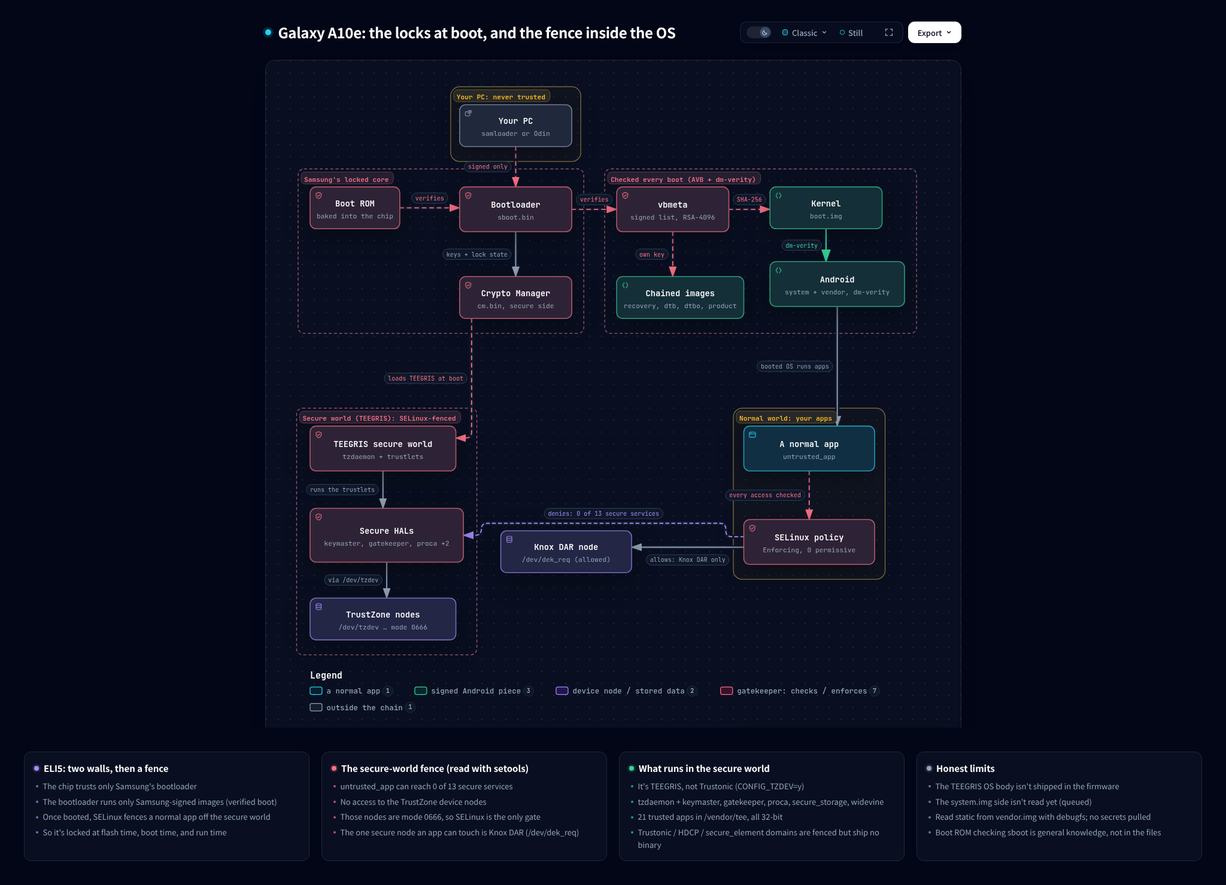
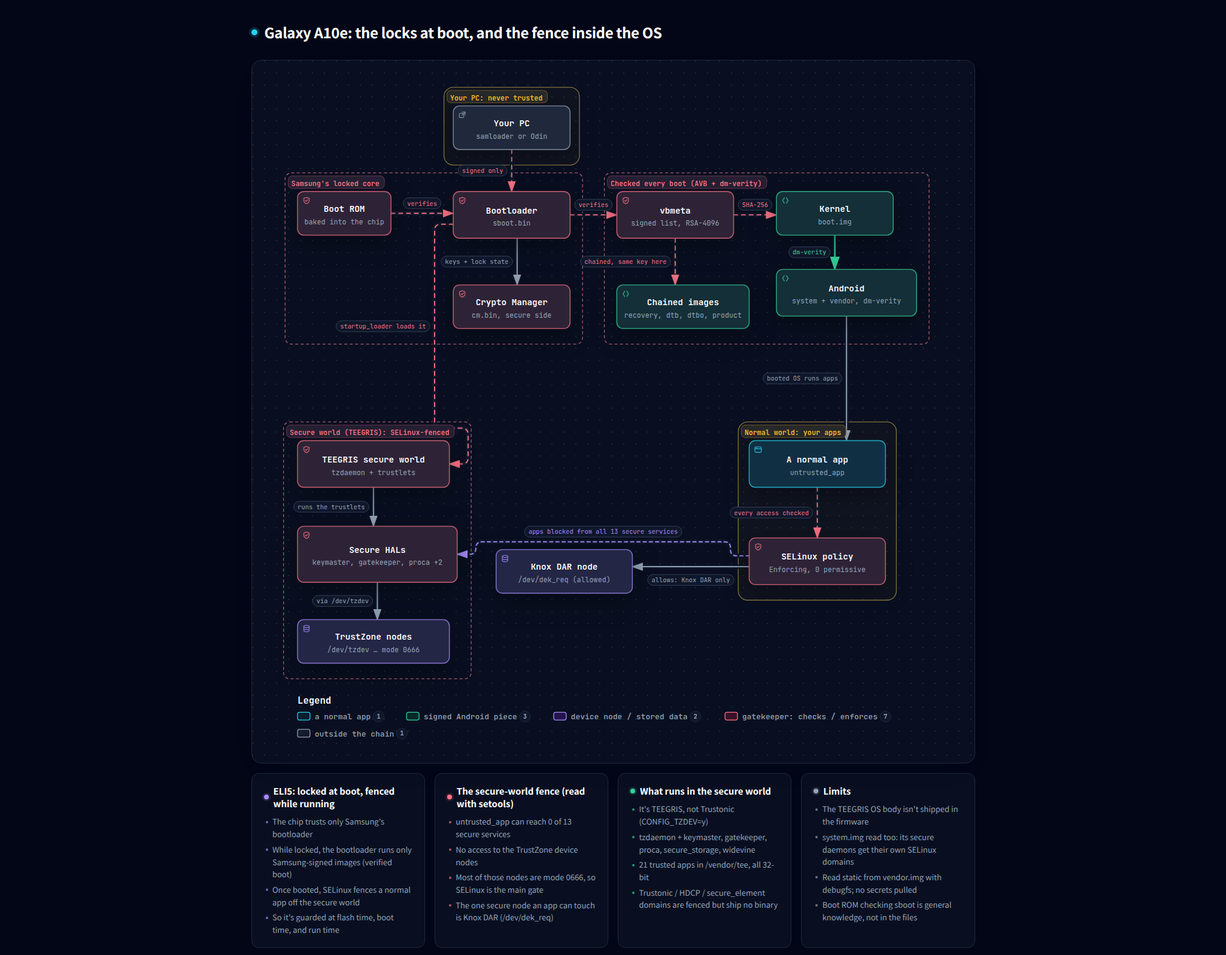
diagrams: fixes from the repo reviews, re-exported without the archify toolbar - hero: SELinux 'blocks apps from all 13' (was the backwards 'denies: 0 of 13'), startup_loader in sboot loads TEEGRIS (not Crypto Manager), chained partitions use the same key, 'main gate', 'while locked', the system.img

diff --git a/.archify/workflow-a10e-two-walls-20261028-161640/a10e-two-walls.html b/.archify/workflow-a10e-two-walls-20261028-161640/a10e-two-walls.html
@@ -5202,7 +5202,7 @@ OTHER DEALINGS IN THE FONT SOFTWARE.
     <!-- Main Diagram -->
     <div class="diagram-container" data-detail-level="read"
          data-preset-badge-editorial-plate="ARCHIFY / PLATE 04">
-      <svg viewBox="0 0 1162 676" data-reader-fit="width-first" data-layout-contract="readable-v2" role="img" lang="en" aria-labelledby="archify-diagram-title archify-diagram-description" data-animation="trace" data-preset="classic" data-quality-profile="showcase" data-node-ui="">
+      <svg viewBox="0 0 1171 676" data-reader-fit="width-first" data-layout-contract="readable-v2" role="img" lang="en" aria-labelledby="archify-diagram-title archify-diagram-description" data-animation="trace" data-preset="classic" data-quality-profile="showcase" data-node-ui="">
         <title id="archify-diagram-title">Why LineageOS can&#39;t go on this phone: two walls</title>
         <desc id="archify-diagram-description">A workflow diagram generated by Archify.</desc>
         <!-- Definitions -->
@@ -5249,35 +5249,35 @@ OTHER DEALINGS IN THE FONT SOFTWARE.
         <rect width="100%" height="100%" fill="url(#grid)" />
 
         <!-- Swimlanes -->
-        <rect data-graph-role="structural-frame" data-composition-frame-kind="lane" data-composition-frame-id="lane-0" x="40" y="52" width="1106" height="174" rx="10" class="c-lane" stroke-width="1"/>
+        <rect data-graph-role="structural-frame" data-composition-frame-kind="lane" data-composition-frame-id="lane-0" x="40" y="52" width="1115" height="174" rx="10" class="c-lane" stroke-width="1"/>
         <text x="54" y="74" class="t-muted" font-size="10" font-weight="600">01 / Wall 1 - getting in</text>
 
-        <rect data-graph-role="structural-frame" data-composition-frame-kind="lane" data-composition-frame-id="lane-1" x="40" y="246" width="1106" height="182" rx="10" class="c-lane" stroke-width="1"/>
+        <rect data-graph-role="structural-frame" data-composition-frame-kind="lane" data-composition-frame-id="lane-1" x="40" y="246" width="1115" height="182" rx="10" class="c-lane" stroke-width="1"/>
         <text x="54" y="268" class="t-muted" font-size="10" font-weight="600">02 / Wall 2 - the VINTF version check</text>
 
-        <rect data-graph-role="structural-frame" data-composition-frame-kind="lane" data-composition-frame-id="lane-2" x="40" y="448" width="1106" height="104" rx="10" class="c-lane" stroke-width="1"/>
+        <rect data-graph-role="structural-frame" data-composition-frame-kind="lane" data-composition-frame-id="lane-2" x="40" y="448" width="1115" height="104" rx="10" class="c-lane" stroke-width="1"/>
         <text x="54" y="470" class="t-muted" font-size="10" font-weight="600">03 / Comparison - the tablets</text>
 
         <!-- Phase headers -->
 
 
         <!-- Workflow groups -->
-        <rect data-graph-role="structural-frame" data-composition-frame-kind="group" data-composition-frame-id="group-0" x="865.2" y="284" width="196" height="140" rx="9" class="c-lane" stroke-width="1"/>
-        <text x="875.2" y="282" class="t-messagebus" font-size="7" font-weight="600">Smaller details</text>
+        <rect data-graph-role="structural-frame" data-composition-frame-kind="group" data-composition-frame-id="group-0" x="828.4" y="284" width="288.0000000000001" height="140" rx="9" class="c-lane" stroke-width="1"/>
+        <text x="838.4" y="282" class="t-messagebus" font-size="7" font-weight="600">Smaller details</text>
 
         <!-- Edge paths -->
-        <path data-edge-from="avb" data-edge-to="avb_ev" data-edge-key="0" data-edge-id="e-avb-ev" data-edge-role="branch" data-composition-points="740.4,138;740.4,170" d="M 740.4 138 L 740.4 170" class="a-dashed" data-animate="edge" style="--step:5" stroke-width="1.4" marker-end="url(#arrowhead-dashed)"/>
-        <path data-edge-from="avb" data-edge-to="resign" data-edge-label="re-sign it?" data-edge-key="1" data-edge-id="e-avb-resign" data-composition-routing="workflow-v2-auto" data-edge-role="error" data-composition-points="810.4,112;881.2,112" d="M 810.4 112 L 881.2 112" class="a-security" data-animate="edge" style="--step:3" stroke-width="1.4" marker-end="url(#arrowhead-security)"/>
+        <path data-edge-from="avb" data-edge-to="avb_ev" data-edge-key="0" data-edge-id="e-avb-ev" data-edge-role="branch" data-composition-points="742.4,138;742.4,170" d="M 742.4 138 L 742.4 170" class="a-dashed" data-animate="edge" style="--step:5" stroke-width="1.4" marker-end="url(#arrowhead-dashed)"/>
+        <path data-edge-from="avb" data-edge-to="resign" data-edge-label="re-sign it?" data-edge-key="1" data-edge-id="e-avb-resign" data-composition-routing="workflow-v2-auto" data-edge-role="error" data-composition-points="812.4,112;890.4,112" d="M 812.4 112 L 890.4 112" class="a-security" data-animate="edge" style="--step:3" stroke-width="1.4" marker-end="url(#arrowhead-security)"/>
         <path data-edge-from="gsi" data-edge-to="locked" data-edge-label="get in?" data-edge-key="2" data-edge-id="e-gsi-locked" data-composition-routing="workflow-v2-auto" data-edge-role="" data-composition-points="166,112;270.8,112" d="M 166 112 L 270.8 112" class="a-emphasis" data-animate="edge" style="--step:0" stroke-width="1.8" marker-end="url(#arrowhead-emphasis)"/>
         <path data-edge-from="gsi" data-edge-to="matrices" data-edge-key="3" data-edge-id="e-gsi-matrices" data-composition-routing="workflow-v2-auto" data-edge-role="" data-composition-points="74,112;20,112;20,355;48,355" d="M 74 112 L 28 112 Q 20 112 20 120 L 20 347 Q 20 355 28 355 L 48 355" class="a-emphasis" data-animate="edge" style="--step:8" stroke-width="1.8" marker-end="url(#arrowhead-emphasis)"/>
         <path data-edge-from="locked" data-edge-to="locked_ev" data-edge-key="4" data-edge-id="e-locked-ev" data-edge-role="branch" data-composition-points="326.8,138;326.8,170" d="M 326.8 138 L 326.8 170" class="a-dashed" data-animate="edge" style="--step:9" stroke-width="1.4" marker-end="url(#arrowhead-dashed)"/>
-        <path data-edge-from="locked" data-edge-to="toggle" data-edge-key="5" data-edge-id="e-locked-toggle" data-composition-routing="workflow-v2-auto" data-edge-role="" data-composition-points="382.8,112;444.79999999999995,112" d="M 382.8 112 L 444.79999999999995 112" class="a-security" data-animate="edge" style="--step:1" stroke-width="1.4" marker-end="url(#arrowhead-security)"/>
+        <path data-edge-from="locked" data-edge-to="toggle" data-edge-key="5" data-edge-id="e-locked-toggle" data-composition-routing="workflow-v2-auto" data-edge-role="" data-composition-points="382.8,112;432.79999999999995,112" d="M 382.8 112 L 432.79999999999995 112" class="a-security" data-animate="edge" style="--step:1" stroke-width="1.4" marker-end="url(#arrowhead-security)"/>
         <path data-edge-from="matrices" data-edge-to="vendor" data-edge-label="paired with" data-edge-key="6" data-edge-id="e-matrices-vendor" data-composition-routing="workflow-v2-auto" data-edge-role="" data-composition-points="192,355;262.8,355" d="M 192 355 L 262.8 355" class="a-security" data-animate="edge" style="--step:11" stroke-width="1.4" marker-end="url(#arrowhead-security)"/>
         <path data-edge-from="rule" data-edge-to="refused2" data-edge-label="no level-3 matrix" data-edge-key="7" data-edge-id="e-rule-refused" data-composition-routing="workflow-v2-auto" data-edge-role="error" data-composition-points="584.8,355;684.4,355" d="M 584.8 355 L 684.4 355" class="a-security" data-animate="edge" style="--step:12" stroke-width="1.4" marker-end="url(#arrowhead-security)"/>
         <path data-edge-from="tab" data-edge-to="tabunlock" data-edge-key="8" data-edge-id="e-tab-unlock" data-composition-routing="workflow-v2-auto" data-edge-role="" data-composition-points="166,515;454.79999999999995,515" d="M 166 515 L 454.79999999999995 515" class="a-emphasis" data-animate="edge" style="--step:12" stroke-width="1.8" marker-end="url(#arrowhead-emphasis)"/>
-        <path data-edge-from="toggle" data-edge-to="avb" data-edge-key="9" data-edge-id="e-toggle-avb" data-composition-routing="workflow-v2-auto" data-edge-role="" data-composition-points="584.8,112;670.4,112" d="M 584.8 112 L 670.4 112" class="a-security" data-animate="edge" style="--step:2" stroke-width="1.4" marker-end="url(#arrowhead-security)"/>
+        <path data-edge-from="toggle" data-edge-to="avb" data-edge-key="9" data-edge-id="e-toggle-avb" data-composition-routing="workflow-v2-auto" data-edge-role="" data-composition-points="596.8,112;672.4,112" d="M 596.8 112 L 672.4 112" class="a-security" data-animate="edge" style="--step:2" stroke-width="1.4" marker-end="url(#arrowhead-security)"/>
         <path data-edge-from="toggle" data-edge-to="toggle_ev" data-edge-key="10" data-edge-id="e-toggle-ev" data-edge-role="branch" data-composition-points="514.8,138;514.8,170" d="M 514.8 138 L 514.8 170" class="a-dashed" data-animate="edge" style="--step:12" stroke-width="1.4" marker-end="url(#arrowhead-dashed)"/>
-        <path data-edge-from="tabunlock" data-edge-to="tabpast" data-edge-key="11" data-edge-id="e-unlock-past" data-composition-routing="workflow-v2-auto" data-edge-role="" data-composition-points="574.8,515;694.4,515" d="M 574.8 515 L 694.4 515" class="a-emphasis" data-animate="edge" style="--step:12" stroke-width="1.8" marker-end="url(#arrowhead-emphasis)"/>
+        <path data-edge-from="tabunlock" data-edge-to="tabpast" data-edge-key="11" data-edge-id="e-unlock-past" data-composition-routing="workflow-v2-auto" data-edge-role="" data-composition-points="574.8,515;696.4,515" d="M 574.8 515 L 696.4 515" class="a-emphasis" data-animate="edge" style="--step:12" stroke-width="1.8" marker-end="url(#arrowhead-emphasis)"/>
         <path data-edge-from="vendor" data-edge-to="rule" data-edge-key="12" data-edge-id="e-vendor-rule" data-composition-routing="workflow-v2-auto" data-edge-role="" data-composition-points="390.8,355;444.79999999999995,355" d="M 390.8 355 L 444.79999999999995 355" class="a-security" data-animate="edge" style="--step:12" stroke-width="1.4" marker-end="url(#arrowhead-security)"/>
 
         <!-- Nodes -->
@@ -5316,15 +5316,16 @@ OTHER DEALINGS IN THE FONT SOFTWARE.
           <text data-detail="context" x="326.8" y="216.3" class="t-muted" font-size="8" text-anchor="middle">flash.locked = 1</text>
         </g>
 
-        <g id="node-toggle" data-node-id="toggle" data-node-label="OEM unlock toggle off" tabindex="0" role="button" aria-label="Focus OEM unlock toggle off, Wall 1 - getting in" aria-pressed="false" data-node-kind="security" data-node-context="Wall 1 - getting in">
-          <title>OEM unlock toggle off · Wall 1 - getting in</title>
-          <rect x="444.79999999999995" y="86" width="140" height="52" rx="8" class="c-mask"/>
-          <rect x="444.79999999999995" y="86" width="140" height="52" rx="8" class="c-security" data-animate="node" style="--step:2" stroke-width="1.5"/>
-          <g aria-hidden="true" data-semantic-sigil="security" class="semantic-sigil s-security" transform="translate(450.79999999999995 92) scale(0.6875)">
+        <g id="node-toggle" data-node-id="toggle" data-node-label="OEM unlocking not allowed" tabindex="0" role="button" aria-label="Focus OEM unlocking not allowed, (sys.oem_unlock_allowed=0), Wall 1 - getting in" aria-pressed="false" data-node-kind="security" data-node-sublabel="(sys.oem_unlock_allowed=0)" data-node-context="Wall 1 - getting in">
+          <title>OEM unlocking not allowed · (sys.oem_unlock_allowed=0) · Wall 1 - getting in</title>
+          <rect x="432.79999999999995" y="86" width="164" height="52" rx="8" class="c-mask"/>
+          <rect x="432.79999999999995" y="86" width="164" height="52" rx="8" class="c-security" data-animate="node" style="--step:2" stroke-width="1.5"/>
+          <g aria-hidden="true" data-semantic-sigil="security" class="semantic-sigil s-security" transform="translate(438.79999999999995 92) scale(0.6875)">
             <path d="M8 2.2 13 4v3.5c0 3.1-1.8 5.4-5 6.5-3.2-1.1-5-3.4-5-6.5V4Z"/>
             <path d="m5.8 8 1.5 1.5 3-3"/>
           </g>
-          <text data-node-label="" x="514.8" y="117.5" class="t-primary" font-size="10.4" font-weight="600" text-anchor="middle">OEM unlock toggle off</text>
+          <text data-node-label="" data-detail-anchor="" x="514.8" y="117.5" class="t-primary" font-size="10.4" font-weight="600" text-anchor="middle">OEM unlocking not allowed</text>
+          <text data-detail="context" x="514.8" y="132.3" class="t-muted" font-size="8" text-anchor="middle">(sys.oem_unlock_allowed=0)</text>
         </g>
 
         <g id="node-toggle_ev" data-node-id="toggle_ev" data-node-label="sys.oem_unlock_allowed = 0" tabindex="0" role="button" aria-label="Focus sys.oem_unlock_allowed = 0, ro.oem_unlock_supported = 1, Wall 1 - getting in" aria-pressed="false" data-node-kind="database" data-node-sublabel="ro.oem_unlock_supported = 1" data-node-context="Wall 1 - getting in">
@@ -5341,38 +5342,38 @@ OTHER DEALINGS IN THE FONT SOFTWARE.
 
         <g id="node-avb" data-node-id="avb" data-node-label="AVB rejects the image" tabindex="0" role="button" aria-label="Focus AVB rejects the image, while bootloader is locked, Wall 1 - getting in" aria-pressed="false" data-node-kind="security" data-node-sublabel="while bootloader is locked" data-node-context="Wall 1 - getting in">
           <title>AVB rejects the image · while bootloader is locked · Wall 1 - getting in</title>
-          <rect x="670.4" y="86" width="140" height="52" rx="8" class="c-mask"/>
-          <rect x="670.4" y="86" width="140" height="52" rx="8" class="c-security" data-animate="node" style="--step:3" stroke-width="1.5"/>
-          <g aria-hidden="true" data-semantic-sigil="security" class="semantic-sigil s-security" transform="translate(676.4 92) scale(0.6875)">
+          <rect x="672.4" y="86" width="140" height="52" rx="8" class="c-mask"/>
+          <rect x="672.4" y="86" width="140" height="52" rx="8" class="c-security" data-animate="node" style="--step:3" stroke-width="1.5"/>
+          <g aria-hidden="true" data-semantic-sigil="security" class="semantic-sigil s-security" transform="translate(678.4 92) scale(0.6875)">
             <path d="M8 2.2 13 4v3.5c0 3.1-1.8 5.4-5 6.5-3.2-1.1-5-3.4-5-6.5V4Z"/>
             <path d="m5.8 8 1.5 1.5 3-3"/>
           </g>
-          <text data-node-label="" data-detail-anchor="" x="740.4" y="117.5" class="t-primary" font-size="10.4" font-weight="600" text-anchor="middle">AVB rejects the image</text>
-          <text data-detail="context" x="740.4" y="132.3" class="t-muted" font-size="8" text-anchor="middle">while bootloader is locked</text>
+          <text data-node-label="" data-detail-anchor="" x="742.4" y="117.5" class="t-primary" font-size="10.4" font-weight="600" text-anchor="middle">AVB rejects the image</text>
+          <text data-detail="context" x="742.4" y="132.3" class="t-muted" font-size="8" text-anchor="middle">while bootloader is locked</text>
         </g>
 
         <g id="node-avb_ev" data-node-id="avb_ev" data-node-label="Samsung&#39;s 4096-bit key" tabindex="0" role="button" aria-label="Focus Samsung&#39;s 4096-bit key, the only key it accepts, Wall 1 - getting in" aria-pressed="false" data-node-kind="database" data-node-sublabel="the only key it accepts" data-node-context="Wall 1 - getting in">
           <title>Samsung&#39;s 4096-bit key · the only key it accepts · Wall 1 - getting in</title>
-          <rect x="668.4" y="170" width="144" height="52" rx="8" class="c-mask"/>
-          <rect x="668.4" y="170" width="144" height="52" rx="8" class="c-database" data-animate="node" style="--step:11" stroke-width="1.5"/>
-          <g aria-hidden="true" data-semantic-sigil="database" class="semantic-sigil s-database" transform="translate(674.4 176) scale(0.6875)">
+          <rect x="670.4" y="170" width="144" height="52" rx="8" class="c-mask"/>
+          <rect x="670.4" y="170" width="144" height="52" rx="8" class="c-database" data-animate="node" style="--step:11" stroke-width="1.5"/>
+          <g aria-hidden="true" data-semantic-sigil="database" class="semantic-sigil s-database" transform="translate(676.4 176) scale(0.6875)">
             <ellipse cx="8" cy="4" rx="5" ry="2"/>
             <path d="M3 4v8c0 1.1 2.2 2 5 2s5-.9 5-2V4M3 8c0 1.1 2.2 2 5 2s5-.9 5-2"/>
           </g>
-          <text data-node-label="" data-detail-anchor="" x="740.4" y="201.4" class="t-primary" font-size="10.3" font-weight="600" text-anchor="middle">Samsung&#39;s 4096-bit key</text>
-          <text data-detail="context" x="740.4" y="216.1" class="t-muted" font-size="8" text-anchor="middle">the only key it accepts</text>
+          <text data-node-label="" data-detail-anchor="" x="742.4" y="201.4" class="t-primary" font-size="10.3" font-weight="600" text-anchor="middle">Samsung&#39;s 4096-bit key</text>
+          <text data-detail="context" x="742.4" y="216.1" class="t-muted" font-size="8" text-anchor="middle">the only key it accepts</text>
         </g>
 
         <g id="node-resign" data-node-id="resign" data-node-label="vbmeta can&#39;t be re-signed" tabindex="0" role="button" aria-label="Focus vbmeta can&#39;t be re-signed, needs Samsung&#39;s private key, Wall 1 - getting in" aria-pressed="false" data-node-kind="security" data-node-sublabel="needs Samsung&#39;s private key" data-node-context="Wall 1 - getting in">
           <title>vbmeta can&#39;t be re-signed · needs Samsung&#39;s private key · Wall 1 - getting in</title>
-          <rect x="881.2" y="86" width="164" height="52" rx="8" class="c-mask"/>
-          <rect x="881.2" y="86" width="164" height="52" rx="8" class="c-security" data-animate="node" style="--step:4" stroke-width="1.5"/>
-          <g aria-hidden="true" data-semantic-sigil="stop" class="semantic-sigil s-security" transform="translate(887.2 92) scale(0.6875)">
+          <rect x="890.4" y="86" width="164" height="52" rx="8" class="c-mask"/>
+          <rect x="890.4" y="86" width="164" height="52" rx="8" class="c-security" data-animate="node" style="--step:4" stroke-width="1.5"/>
+          <g aria-hidden="true" data-semantic-sigil="stop" class="semantic-sigil s-security" transform="translate(896.4 92) scale(0.6875)">
             <circle cx="8" cy="8" r="5.3"/>
             <rect x="6.1" y="6.1" width="3.8" height="3.8" rx=".5" class="sigil-fill"/>
           </g>
-          <text data-node-label="" data-detail-anchor="" x="963.2" y="117.5" class="t-primary" font-size="10.4" font-weight="600" text-anchor="middle">vbmeta can&#39;t be re-signed</text>
-          <text data-detail="context" x="963.2" y="132.3" class="t-muted" font-size="8" text-anchor="middle">needs Samsung&#39;s private key</text>
+          <text data-node-label="" data-detail-anchor="" x="972.4" y="117.5" class="t-primary" font-size="10.4" font-weight="600" text-anchor="middle">vbmeta can&#39;t be re-signed</text>
+          <text data-detail="context" x="972.4" y="132.3" class="t-muted" font-size="8" text-anchor="middle">needs Samsung&#39;s private key</text>
         </g>
 
         <g id="node-matrices" data-node-id="matrices" data-node-label="LineageOS 21 GSI" tabindex="0" role="button" aria-label="Focus LineageOS 21 GSI, matrices: levels 4 to 8 only, Wall 2 - the VINTF version check" aria-pressed="false" data-node-kind="external" data-node-sublabel="matrices: levels 4 to 8 only" data-node-context="Wall 2 - the VINTF version check">
@@ -5412,32 +5413,32 @@ OTHER DEALINGS IN THE FONT SOFTWARE.
 
         <g id="node-refused2" data-node-id="refused2" data-node-label="Should be refused" tabindex="0" role="button" aria-label="Focus Should be refused, by the rule, not booted, Wall 2 - the VINTF version check" aria-pressed="false" data-node-kind="security" data-node-sublabel="by the rule, not booted" data-node-context="Wall 2 - the VINTF version check">
           <title>Should be refused · by the rule, not booted · Wall 2 - the VINTF version check</title>
-          <rect x="684.4" y="329" width="112" height="52" rx="8" class="c-mask"/>
-          <rect x="684.4" y="329" width="112" height="52" rx="8" class="c-security" data-animate="node" style="--step:12" stroke-width="1.5"/>
+          <rect x="684.4" y="329" width="116" height="52" rx="8" class="c-mask"/>
+          <rect x="684.4" y="329" width="116" height="52" rx="8" class="c-security" data-animate="node" style="--step:12" stroke-width="1.5"/>
           <g aria-hidden="true" data-semantic-sigil="stop" class="semantic-sigil s-security" transform="translate(690.4 335) scale(0.6875)">
             <circle cx="8" cy="8" r="5.3"/>
             <rect x="6.1" y="6.1" width="3.8" height="3.8" rx=".5" class="sigil-fill"/>
           </g>
-          <text data-node-label="" data-detail-anchor="" x="740.4" y="360.2" class="t-primary" font-size="10.1" font-weight="600" text-anchor="middle">Should be refused</text>
-          <text data-detail="context" x="740.4" y="374.3" class="t-muted" font-size="7.5" text-anchor="middle">by the rule, not booted</text>
+          <text data-node-label="" data-detail-anchor="" x="742.4" y="360.6" class="t-primary" font-size="10.5" font-weight="600" text-anchor="middle">Should be refused</text>
+          <text data-detail="context" x="742.4" y="375.2" class="t-muted" font-size="7.8" text-anchor="middle">by the rule, not booted</text>
         </g>
 
-        <g id="node-kernel" data-node-id="kernel" data-node-label="Kernel patch level" tabindex="0" role="button" aria-label="Focus Kernel patch level, GSI wants 4.4.302, phone runs 4.4.111, Wall 2 - the VINTF version check › Smaller details" aria-pressed="false" data-node-kind="messagebus" data-node-sublabel="GSI wants 4.4.302, phone runs 4.4.111" data-node-context="Wall 2 - the VINTF version check › Smaller details">
-          <title>Kernel patch level · GSI wants 4.4.302, phone runs 4.4.111 · Wall 2 - the VINTF version check › Smaller details</title>
-          <rect x="869.2" y="371" width="188" height="52" rx="8" class="c-mask"/>
-          <rect x="869.2" y="371" width="188" height="52" rx="8" class="c-messagebus" data-animate="node" style="--step:12" stroke-width="1.5"/>
+        <g id="node-kernel" data-node-id="kernel" data-node-label="Kernel patch level" tabindex="0" role="button" aria-label="Focus Kernel patch level, GSI wants 4.4.302 (later review&#39;s read), phone runs 4.4.111, Wall 2 - the VINTF version check › Smaller details" aria-pressed="false" data-node-kind="messagebus" data-node-sublabel="GSI wants 4.4.302 (later review&#39;s read), phone runs 4.4.111" data-node-context="Wall 2 - the VINTF version check › Smaller details">
+          <title>Kernel patch level · GSI wants 4.4.302 (later review&#39;s read), phone runs 4.4.111 · Wall 2 - the VINTF version check › Smaller details</title>
+          <rect x="832.4" y="371" width="280" height="52" rx="8" class="c-mask"/>
+          <rect x="832.4" y="371" width="280" height="52" rx="8" class="c-messagebus" data-animate="node" style="--step:12" stroke-width="1.5"/>
           
-          <text data-node-label="" data-detail-anchor="" x="963.2" y="392" class="t-primary" font-size="11" font-weight="600" text-anchor="middle">Kernel patch level</text>
-          <text data-detail="context" x="963.2" y="409" class="t-muted" font-size="8" text-anchor="middle">GSI wants 4.4.302, phone runs 4.4.111</text>
+          <text data-node-label="" data-detail-anchor="" x="972.4" y="392" class="t-primary" font-size="11" font-weight="600" text-anchor="middle">Kernel patch level</text>
+          <text data-detail="context" x="972.4" y="409" class="t-muted" font-size="7.6" text-anchor="middle">GSI wants 4.4.302 (later review&#39;s read), phone runs 4.4.111</text>
         </g>
 
-        <g id="node-vndk" data-node-id="vndk" data-node-label="VNDK-28 runtime" tabindex="0" role="button" aria-label="Focus VNDK-28 runtime, the GSI still ships it, Wall 2 - the VINTF version check › Smaller details" aria-pressed="false" data-node-kind="messagebus" data-node-sublabel="the GSI still ships it" data-node-context="Wall 2 - the VINTF version check › Smaller details">
-          <title>VNDK-28 runtime · the GSI still ships it · Wall 2 - the VINTF version check › Smaller details</title>
-          <rect x="909.2" y="287" width="108" height="52" rx="8" class="c-mask"/>
-          <rect x="909.2" y="287" width="108" height="52" rx="8" class="c-messagebus" data-animate="node" style="--step:12" stroke-width="1.5"/>
+        <g id="node-vndk" data-node-id="vndk" data-node-label="VNDK-28 runtime" tabindex="0" role="button" aria-label="Focus VNDK-28 runtime, the GSI still ships it (later review&#39;s read), Wall 2 - the VINTF version check › Smaller details" aria-pressed="false" data-node-kind="messagebus" data-node-sublabel="the GSI still ships it (later review&#39;s read)" data-node-context="Wall 2 - the VINTF version check › Smaller details">
+          <title>VNDK-28 runtime · the GSI still ships it (later review&#39;s read) · Wall 2 - the VINTF version check › Smaller details</title>
+          <rect x="832.4" y="287" width="280" height="52" rx="8" class="c-mask"/>
+          <rect x="832.4" y="287" width="280" height="52" rx="8" class="c-messagebus" data-animate="node" style="--step:12" stroke-width="1.5"/>
           
-          <text data-node-label="" data-detail-anchor="" x="963.2" y="319.2" class="t-primary" font-size="11" font-weight="600" text-anchor="middle">VNDK-28 runtime</text>
-          <text data-detail="context" x="963.2" y="333.5" class="t-muted" font-size="7.5" text-anchor="middle">the GSI still ships it</text>
+          <text data-node-label="" data-detail-anchor="" x="972.4" y="308" class="t-primary" font-size="11" font-weight="600" text-anchor="middle">VNDK-28 runtime</text>
+          <text data-detail="context" x="972.4" y="325" class="t-muted" font-size="8" text-anchor="middle">the GSI still ships it (later review&#39;s read)</text>
         </g>
 
         <g id="node-tab" data-node-id="tab" data-node-label="Galaxy Tab A8" tabindex="0" role="button" aria-label="Focus Galaxy Tab A8, the tablets, Comparison - the tablets" aria-pressed="false" data-node-kind="external" data-node-sublabel="the tablets" data-node-context="Comparison - the tablets">
@@ -5465,20 +5466,20 @@ OTHER DEALINGS IN THE FONT SOFTWARE.
 
         <g id="node-tabpast" data-node-id="tabpast" data-node-label="Past wall 1" tabindex="0" role="button" aria-label="Focus Past wall 1, Comparison - the tablets" aria-pressed="false" data-node-kind="backend" data-node-context="Comparison - the tablets">
           <title>Past wall 1 · Comparison - the tablets</title>
-          <rect x="694.4" y="489" width="92" height="52" rx="8" class="c-mask"/>
-          <rect x="694.4" y="489" width="92" height="52" rx="8" class="c-backend" data-animate="node" style="--step:12" stroke-width="1.5"/>
-          <g aria-hidden="true" data-semantic-sigil="success" class="semantic-sigil s-backend" transform="translate(700.4 495) scale(0.6875)">
+          <rect x="696.4" y="489" width="92" height="52" rx="8" class="c-mask"/>
+          <rect x="696.4" y="489" width="92" height="52" rx="8" class="c-backend" data-animate="node" style="--step:12" stroke-width="1.5"/>
+          <g aria-hidden="true" data-semantic-sigil="success" class="semantic-sigil s-backend" transform="translate(702.4 495) scale(0.6875)">
             <circle cx="8" cy="8" r="5.3"/>
             <path d="m5.2 8 1.8 1.8 3.8-4"/>
           </g>
-          <text data-node-label="" x="740.4" y="521.2" class="t-primary" font-size="11" font-weight="600" text-anchor="middle">Past wall 1</text>
+          <text data-node-label="" x="742.4" y="521.2" class="t-primary" font-size="11" font-weight="600" text-anchor="middle">Past wall 1</text>
         </g>
 
         <!-- Edge labels -->
 
         <g data-detail="context" data-edge-from="avb" data-edge-to="resign" data-edge-label="re-sign it?" data-edge-key="1" data-edge-id="e-avb-resign">
-          <rect x="814.4" y="92" width="62.8" height="14" rx="3" class="c-mask"/>
-          <text x="845.8" y="102" class="t-edge-security" font-size="8" text-anchor="middle">re-sign it?</text>
+          <rect x="820" y="92" width="62.8" height="14" rx="3" class="c-mask"/>
+          <text x="851.4" y="102" class="t-edge-security" font-size="8" text-anchor="middle">re-sign it?</text>
         </g>
         <g data-detail="context" data-edge-from="gsi" data-edge-to="locked" data-edge-label="get in?" data-edge-key="2" data-edge-id="e-gsi-locked">
           <rect x="196.6" y="92" width="43.6" height="14" rx="3" class="c-mask"/>

diff --git a/.archify/architecture-a10e-trust-expanded-20261028-122000/a10e-trust-expanded.html b/.archify/architecture-a10e-trust-expanded-20261028-122000/a10e-trust-expanded.html
@@ -5269,8 +5269,8 @@ OTHER DEALINGS IN THE FONT SOFTWARE.
           <path data-edge-from="pc" data-edge-to="sboot" data-edge-label="signed only" data-edge-key="1" data-composition-points="315,96;315,150" data-composition-crossover="halo" data-composition-independent="true" d="M 315 96 L 315 150" class="a-security" data-animate="edge" style="--step:1" stroke-width="1.5" marker-end="url(#arrowhead-security)"/>
         </g>
         <g data-graph-role="automatic-crossover" style="--step:2">
-          <path data-graph-role="automatic-crossover-underlay" d="M 315 210 L 315 270" fill="none" stroke="var(--mask)" stroke-width="5.5" stroke-linecap="round" stroke-linejoin="round" pointer-events="none"/>
-          <path data-edge-from="sboot" data-edge-to="cm" data-edge-label="keys + lock state" data-edge-key="2" data-composition-points="315,210;315,270" data-composition-crossover="halo" data-composition-independent="true" d="M 315 210 L 315 270" class="a-default" data-animate="edge" style="--step:2" stroke-width="1.5" marker-end="url(#arrowhead)"/>
+          <path data-graph-role="automatic-crossover-underlay" d="M 322 210 L 322 270" fill="none" stroke="var(--mask)" stroke-width="5.5" stroke-linecap="round" stroke-linejoin="round" pointer-events="none"/>
+          <path data-edge-from="sboot" data-edge-to="cm" data-edge-label="keys + lock state" data-edge-key="2" data-composition-points="322,210;322,270" data-composition-crossover="halo" data-composition-independent="true" d="M 322 210 L 322 270" class="a-default" data-animate="edge" style="--step:2" stroke-width="1.5" marker-end="url(#arrowhead)"/>
         </g>
         <g data-graph-role="automatic-crossover" style="--step:3">
           <path data-graph-role="automatic-crossover-underlay" d="M 390 180 L 450 180" fill="none" stroke="var(--mask)" stroke-width="5.5" stroke-linecap="round" stroke-linejoin="round" pointer-events="none"/>
@@ -5278,7 +5278,7 @@ OTHER DEALINGS IN THE FONT SOFTWARE.
         </g>
         <g data-graph-role="automatic-crossover" style="--step:4">
           <path data-graph-role="automatic-crossover-underlay" d="M 525 210 L 525 270" fill="none" stroke="var(--mask)" stroke-width="5.5" stroke-linecap="round" stroke-linejoin="round" pointer-events="none"/>
-          <path data-edge-from="vbmeta" data-edge-to="chained" data-edge-label="own key" data-edge-key="4" data-composition-points="525,210;525,270" data-composition-crossover="halo" data-composition-independent="true" d="M 525 210 L 525 270" class="a-security" data-animate="edge" style="--step:4" stroke-width="1.5" marker-end="url(#arrowhead-security)"/>
+          <path data-edge-from="vbmeta" data-edge-to="chained" data-edge-label="chained, same key here" data-edge-key="4" data-composition-points="525,210;525,270" data-composition-crossover="halo" data-composition-independent="true" d="M 525 210 L 525 270" class="a-security" data-animate="edge" style="--step:4" stroke-width="1.5" marker-end="url(#arrowhead-security)"/>
         </g>
         <g data-graph-role="automatic-crossover" style="--step:5">
           <path data-graph-role="automatic-crossover-underlay" d="M 600 180 L 655 180" fill="none" stroke="var(--mask)" stroke-width="5.5" stroke-linecap="round" stroke-linejoin="round" pointer-events="none"/>
@@ -5293,8 +5293,8 @@ OTHER DEALINGS IN THE FONT SOFTWARE.
           <path data-edge-from="osimg" data-edge-to="app" data-edge-label="booted OS runs apps" data-edge-key="7" data-composition-points="745,310;745,470" data-composition-crossover="halo" data-composition-independent="true" d="M 745 310 L 745 470" class="a-default" data-animate="edge" style="--step:7" stroke-width="1.5" marker-end="url(#arrowhead)"/>
         </g>
         <g data-graph-role="automatic-crossover" style="--step:8">
-          <path data-graph-role="automatic-crossover-underlay" d="M 256 326 L 256 478 Q 256 486 248 486 L 235 486" fill="none" stroke="var(--mask)" stroke-width="5.5" stroke-linecap="round" stroke-linejoin="round" pointer-events="none"/>
-          <path data-edge-from="cm" data-edge-to="teegris" data-edge-label="loads TEEGRIS at boot" data-edge-key="8" data-composition-points="256,326;256,486;235,486" data-composition-crossover="halo" data-composition-independent="true" d="M 256 326 L 256 478 Q 256 486 248 486 L 235 486" class="a-security" data-animate="edge" style="--step:8" stroke-width="1.5" marker-end="url(#arrowhead-security)"/>
+          <path data-graph-role="automatic-crossover-underlay" d="M 240 192 L 224 192 Q 216 192 216 200 L 216 446 Q 216 454 224 454 L 251 454 Q 259 454 259 462 L 259 492 Q 259 500 251 500 L 235 500" fill="none" stroke="var(--mask)" stroke-width="5.5" stroke-linecap="round" stroke-linejoin="round" pointer-events="none"/>
+          <path data-edge-from="sboot" data-edge-to="teegris" data-edge-label="startup_loader loads it" data-edge-key="8" data-composition-points="240,192;216,192;216,454;259,454;259,500;235,500" data-composition-crossover="halo" data-composition-independent="true" d="M 240 192 L 224 192 Q 216 192 216 200 L 216 446 Q 216 454 224 454 L 251 454 Q 259 454 259 462 L 259 492 Q 259 500 251 500 L 235 500" class="a-security" data-animate="edge" style="--step:8" stroke-width="1.5" marker-end="url(#arrowhead-security)"/>
         </g>
         <g data-graph-role="automatic-crossover" style="--step:9">
           <path data-graph-role="automatic-crossover-underlay" d="M 137.5 530 L 137.5 580" fill="none" stroke="var(--mask)" stroke-width="5.5" stroke-linecap="round" stroke-linejoin="round" pointer-events="none"/>
@@ -5314,7 +5314,7 @@ OTHER DEALINGS IN THE FONT SOFTWARE.
         </g>
         <g data-graph-role="automatic-crossover" style="--step:13">
           <path data-graph-role="automatic-crossover-underlay" d="M 620 618 L 604 618 Q 596 618 596 610 L 596 608 Q 596 600 588 600 L 277 600 Q 269 600 269 608 L 269 608 Q 269 616 261 616 L 245 616" fill="none" stroke="var(--mask)" stroke-width="5.5" stroke-linecap="round" stroke-linejoin="round" pointer-events="none"/>
-          <path data-edge-from="selinux" data-edge-to="secdaemons" data-edge-label="denies: 0 of 13 secure services" data-edge-key="13" data-composition-points="620,618;596,618;596,600;269,600;269,616;245,616" data-composition-crossover="halo" data-composition-independent="true" d="M 620 618 L 604 618 Q 596 618 596 610 L 596 608 Q 596 600 588 600 L 277 600 Q 269 600 269 608 L 269 608 Q 269 616 261 616 L 245 616" class="a-dashed" data-animate="edge" style="--step:12" stroke-width="1.5" marker-end="url(#arrowhead-dashed)"/>
+          <path data-edge-from="selinux" data-edge-to="secdaemons" data-edge-label="apps blocked from all 13 secure services" data-edge-key="13" data-composition-points="620,618;596,618;596,600;269,600;269,616;245,616" data-composition-crossover="halo" data-composition-independent="true" d="M 620 618 L 604 618 Q 596 618 596 610 L 596 608 Q 596 600 588 600 L 277 600 Q 269 600 269 608 L 269 608 Q 269 616 261 616 L 245 616" class="a-dashed" data-animate="edge" style="--step:12" stroke-width="1.5" marker-end="url(#arrowhead-dashed)"/>
         </g>
 
         <!-- Components -->
@@ -5497,16 +5497,16 @@ OTHER DEALINGS IN THE FONT SOFTWARE.
           <text x="277.6" y="126" class="t-edge-security" font-size="8" text-anchor="middle">signed only</text>
         </g>
         <g data-detail="context" data-edge-from="sboot" data-edge-to="cm" data-edge-label="keys + lock state" data-edge-key="2">
-          <rect x="217.39999999999998" y="233" width="91.6" height="14" rx="3" class="c-mask"/>
-          <text x="263.2" y="243" class="t-edge-default" font-size="8" text-anchor="middle">keys + lock state</text>
+          <rect x="224.39999999999998" y="233" width="91.6" height="14" rx="3" class="c-mask"/>
+          <text x="270.2" y="243" class="t-edge-default" font-size="8" text-anchor="middle">keys + lock state</text>
         </g>
         <g data-detail="context" data-edge-from="sboot" data-edge-to="vbmeta" data-edge-label="verifies" data-edge-key="3">
           <rect x="395.8" y="160" width="48.4" height="14" rx="3" class="c-mask"/>
           <text x="420" y="170" class="t-edge-security" font-size="8" text-anchor="middle">verifies</text>
         </g>
-        <g data-detail="context" data-edge-from="vbmeta" data-edge-to="chained" data-edge-label="own key" data-edge-key="4">
-          <rect x="475.4" y="233" width="43.6" height="14" rx="3" class="c-mask"/>
-          <text x="497.2" y="243" class="t-edge-security" font-size="8" text-anchor="middle">own key</text>
+        <g data-detail="context" data-edge-from="vbmeta" data-edge-to="chained" data-edge-label="chained, same key here" data-edge-key="4">
+          <rect x="403.4" y="233" width="115.6" height="14" rx="3" class="c-mask"/>
+          <text x="461.2" y="243" class="t-edge-security" font-size="8" text-anchor="middle">chained, same key here</text>
         </g>
         <g data-detail="context" data-edge-from="vbmeta" data-edge-to="boot" data-edge-label="SHA-256" data-edge-key="5">
           <rect x="605.7" y="160" width="43.6" height="14" rx="3" class="c-mask"/>
@@ -5520,9 +5520,9 @@ OTHER DEALINGS IN THE FONT SOFTWARE.
           <rect x="637.8" y="383" width="101.2" height="14" rx="3" class="c-mask"/>
           <text x="688.4" y="393" class="t-edge-default" font-size="8" text-anchor="middle">booted OS runs apps</text>
         </g>
-        <g data-detail="context" data-edge-from="cm" data-edge-to="teegris" data-edge-label="loads TEEGRIS at boot" data-edge-key="8">
-          <rect x="139.2" y="399" width="110.8" height="14" rx="3" class="c-mask"/>
-          <text x="194.6" y="409" class="t-edge-security" font-size="8" text-anchor="middle">loads TEEGRIS at boot</text>
+        <g data-detail="context" data-edge-from="sboot" data-edge-to="teegris" data-edge-label="startup_loader loads it" data-edge-key="8">
+          <rect x="89.60000000000002" y="316" width="120.39999999999999" height="14" rx="3" class="c-mask"/>
+          <text x="149.8" y="326" class="t-edge-security" font-size="8" text-anchor="middle">startup_loader loads it</text>
         </g>
         <g data-detail="context" data-edge-from="teegris" data-edge-to="secdaemons" data-edge-label="runs the trustlets" data-edge-key="9">
           <rect x="35.100000000000016" y="548" width="96.39999999999999" height="14" rx="3" class="c-mask"/>
@@ -5540,9 +5540,9 @@ OTHER DEALINGS IN THE FONT SOFTWARE.
           <rect x="489.6" y="642" width="110.8" height="14" rx="3" class="c-mask"/>
           <text x="545" y="652" class="t-edge-default" font-size="8" text-anchor="middle">allows: Knox DAR only</text>
         </g>
-        <g data-detail="context" data-edge-from="selinux" data-edge-to="secdaemons" data-edge-label="denies: 0 of 13 secure services" data-edge-key="13">
-          <rect x="353.1" y="580" width="158.79999999999998" height="14" rx="3" class="c-mask"/>
-          <text x="432.5" y="590" class="t-edge-dashed" font-size="8" text-anchor="middle">denies: 0 of 13 secure services</text>
+        <g data-detail="context" data-edge-from="selinux" data-edge-to="secdaemons" data-edge-label="apps blocked from all 13 secure services" data-edge-key="13">
+          <rect x="331.5" y="580" width="202" height="14" rx="3" class="c-mask"/>
+          <text x="432.5" y="590" class="t-edge-dashed" font-size="8" text-anchor="middle">apps blocked from all 13 secure services</text>
         </g>
 
         <!-- Boundary labels (foreground masks keep routes out of titles) -->
@@ -5775,13 +5775,13 @@ OTHER DEALINGS IN THE FONT SOFTWARE.
       <div class="card">
         <div class="card-header">
           <div class="card-dot violet"></div>
-          <h3>ELI5: two walls, then a fence</h3>
+          <h3>ELI5: locked at boot, fenced while running</h3>
         </div>
         <ul>
           <li>The chip trusts only Samsung&#39;s bootloader</li>
-          <li>The bootloader runs only Samsung-signed images (verified boot)</li>
+          <li>While locked, the bootloader runs only Samsung-signed images (verified boot)</li>
           <li>Once booted, SELinux fences a normal app off the secure world</li>
-          <li>So it&#39;s locked at flash time, boot time, and run time</li>
+          <li>So it&#39;s guarded at flash time, boot time, and run time</li>
         </ul>
       </div>
 
@@ -5793,7 +5793,7 @@ OTHER DEALINGS IN THE FONT SOFTWARE.
         <ul>
           <li>untrusted_app can reach 0 of 13 secure services</li>
           <li>No access to the TrustZone device nodes</li>
-          <li>Those nodes are mode 0666, so SELinux is the only gate</li>
+          <li>Most of those nodes are mode 0666, so SELinux is the main gate</li>
           <li>The one secure node an app can touch is Knox DAR (/dev/dek_req)</li>
         </ul>
       </div>
@@ -5814,11 +5814,11 @@ OTHER DEALINGS IN THE FONT SOFTWARE.
       <div class="card">
         <div class="card-header">
           <div class="card-dot slate"></div>
-          <h3>Honest limits</h3>
+          <h3>Limits</h3>
         </div>
         <ul>
           <li>The TEEGRIS OS body isn&#39;t shipped in the firmware</li>
-          <li>The system.img side isn&#39;t read yet (queued)</li>
+          <li>system.img read too: its secure daemons get their own SELinux domains</li>
           <li>Read static from vendor.img with debugfs; no secrets pulled</li>
           <li>Boot ROM checking sboot is general knowledge, not in the files</li>
         </ul>

diff --git a/.archify/architecture-a10e-trust-20261026-193833/a10e-trust.html b/.archify/architecture-a10e-trust-20261026-193833/a10e-trust.html
@@ -5276,7 +5276,7 @@ OTHER DEALINGS IN THE FONT SOFTWARE.
         </g>
         <g data-graph-role="automatic-crossover" style="--step:4">
           <path data-graph-role="automatic-crossover-underlay" d="M 645 264 L 645 370" fill="none" stroke="var(--mask)" stroke-width="5.5" stroke-linecap="round" stroke-linejoin="round" pointer-events="none"/>
-          <path data-edge-from="vbmeta" data-edge-to="chained" data-edge-label="own key each" data-edge-key="4" data-composition-points="645,264;645,370" data-composition-crossover="halo" data-composition-independent="true" d="M 645 264 L 645 370" class="a-security" data-animate="edge" style="--step:4" stroke-width="1.5" marker-end="url(#arrowhead-security)"/>
+          <path data-edge-from="vbmeta" data-edge-to="chained" data-edge-label="chained, same key here" data-edge-key="4" data-composition-points="645,264;645,370" data-composition-crossover="halo" data-composition-independent="true" d="M 645 264 L 645 370" class="a-security" data-animate="edge" style="--step:4" stroke-width="1.5" marker-end="url(#arrowhead-security)"/>
         </g>
         <g data-graph-role="automatic-crossover" style="--step:5">
           <path data-graph-role="automatic-crossover-underlay" d="M 720 232 L 825 232" fill="none" stroke="var(--mask)" stroke-width="5.5" stroke-linecap="round" stroke-linejoin="round" pointer-events="none"/>
@@ -5458,9 +5458,9 @@ OTHER DEALINGS IN THE FONT SOFTWARE.
           <rect x="461.6" y="212" width="86.8" height="14" rx="3" class="c-mask"/>
           <text x="505" y="222" class="t-edge-security" font-size="8" text-anchor="middle">checks signature</text>
         </g>
-        <g data-detail="context" data-edge-from="vbmeta" data-edge-to="chained" data-edge-label="own key each" data-edge-key="4">
-          <rect x="571.4000000000001" y="310" width="67.6" height="14" rx="3" class="c-mask"/>
-          <text x="605.2" y="320" class="t-edge-security" font-size="8" text-anchor="middle">own key each</text>
+        <g data-detail="context" data-edge-from="vbmeta" data-edge-to="chained" data-edge-label="chained, same key here" data-edge-key="4">
+          <rect x="523.4000000000001" y="310" width="115.6" height="14" rx="3" class="c-mask"/>
+          <text x="581.2" y="320" class="t-edge-security" font-size="8" text-anchor="middle">chained, same key here</text>
         </g>
         <g data-detail="context" data-edge-from="vbmeta" data-edge-to="boot" data-edge-label="SHA-256 hash" data-edge-key="5">
           <rect x="738.7" y="212" width="67.6" height="14" rx="3" class="c-mask"/>
@@ -5714,14 +5714,14 @@ OTHER DEALINGS IN THE FONT SOFTWARE.
         <ul>
           <li>It changes system or boot, so the fingerprint stops matching</li>
           <li>A new vbmeta would need Samsung&#39;s private key</li>
-          <li>Unlocking would let the bootloader accept it, and this phone can&#39;t unlock</li>
+          <li>Unlocking would let the bootloader accept it, and this unit doesn&#39;t allow unlocking (sys.oem_unlock_allowed=0)</li>
         </ul>
       </div>
 
       <div class="card">
         <div class="card-header">
           <div class="card-dot emerald"></div>
-          <h3>Read from the files tonight</h3>
+          <h3>Read from the files</h3>
         </div>
         <ul>
           <li>vbmeta: RSA-4096; hashes bootloader, cm, boot; dm-verity for system, vendor; 4 chained</li>

diff --git a/.archify/workflow-a10e-adrp-bug-20261028-161541/a10e-adrp-bug.html b/.archify/workflow-a10e-adrp-bug-20261028-161541/a10e-adrp-bug.html
@@ -5724,7 +5724,6 @@ OTHER DEALINGS IN THE FONT SOFTWARE.
         <ul>
           <li>Phase 0: every reference lands exactly 0x800 bytes (2 KB) off; about 1,000 land on a clean string start</li>
           <li>Phase 0x800: about 4,249 land on a clean string start (tools/phase_test.py)</li>
-          <li>A from-scratch recompute gives around 3,600 vs 870; one phase clearly wins</li>
           <li>0x12349876 is the identifier at the top of every Samsung PIT file; under phase 0 that check was written up as a Knox Guard token gate</li>
           <li>At the right phase the same check references guid_part.c (partition-table integrity)</li>
           <li>0x8f000000 is a ldr;br jump literal, the VA of file offset 0x61800</li>
